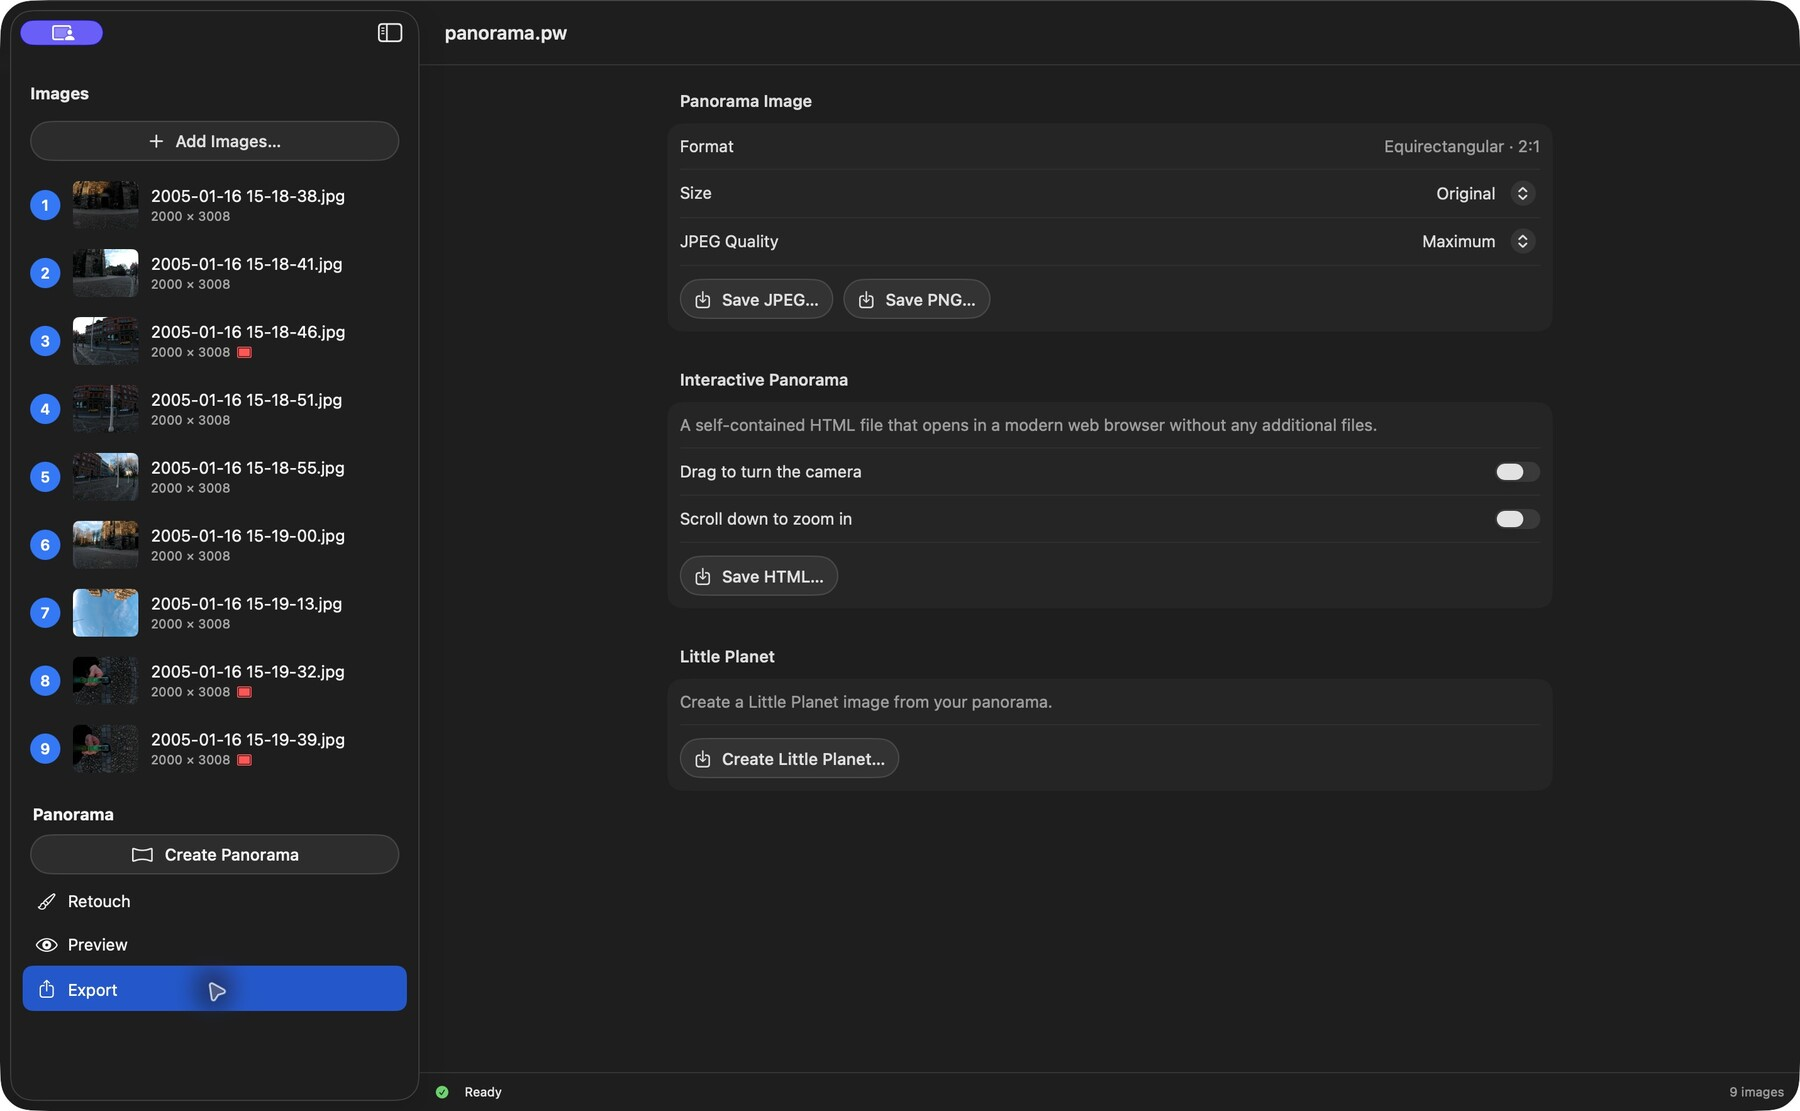
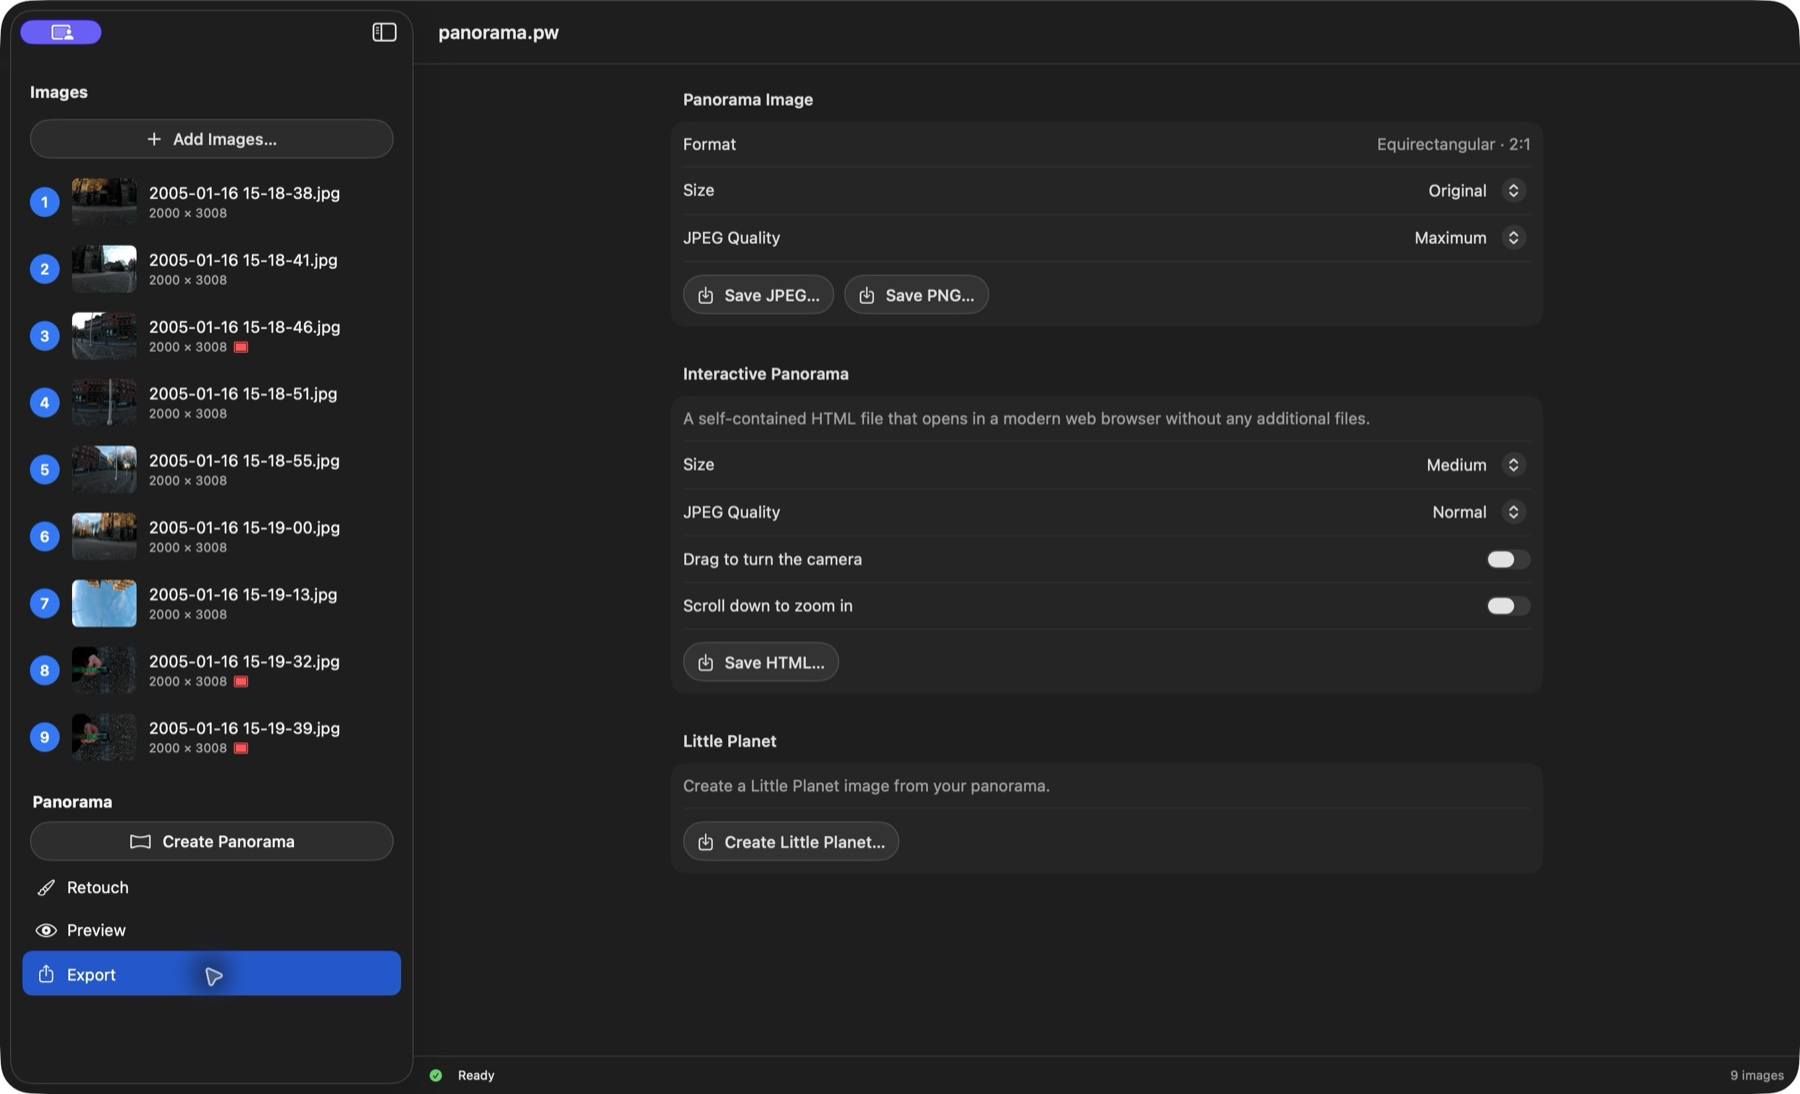
Refresh documentation and screenshots for panorama export
Document seven examples and independent HTML size and JPEG quality controls. Correct example G prompt details and replace the export and garden screenshots with captures from the current app.

diff --git a/docs/examples.md b/docs/examples.md
@@ -104,7 +104,7 @@ Open **Retouch** and click the **Manual Patch** thumbnail to locate its area in 
 
 ![Example F open in PanoWizard Preview, showing the seated people on the snowy terrace and its six NEF source files in the sidebar](Images/Examples/f-preview.jpg)
 
-Explore the terrace, seated people, and surrounding buildings in **Preview**. F uses Nikon D80 NEF RAW source photographs, unlike the JPEG sources in A–E. Keep all six `.NEF` files beside `panorama.pw`.
+Explore the terrace, seated people, and surrounding buildings in **Preview**. F uses Nikon D80 NEF RAW source photographs, unlike the JPEG sources in A–E and G. Keep all six `.NEF` files beside `panorama.pw`.
 
 **No AI was used in F.** The tripod is hidden using only a green **Include** mask, which favors existing pixels from an overlapping source photograph. There are no manual or AI retouch patches.
 
@@ -138,7 +138,7 @@ G shows how AI retouching can complete both ends of a panorama from a single hor
 
 Open **Retouch** to find the two **AI Patch** entries. The first is the nadir repair; the second is the zenith repair. Click each thumbnail to locate its area in **Preview**. Return to Retouch, switch that patch off, and click its thumbnail again to inspect the same view before retouching. Repeat with the switch on. The patches can be toggled independently, and viewing the saved results requires no API key.
 
-To inspect a saved mask and instruction, click the patch’s pencil button and choose **Cancel** when finished. Both patches use the default **Replace** instruction with a short description of the scene: grass and leaves for the nadir, branches and leaves for the zenith. See [AI Retouch](HowTo/AIPatch/index.html) to try this on a copy of the project.
+To inspect a saved mask and instruction, click the patch’s pencil button and choose **Cancel** when finished. Both saved patches use the default **Replace** instruction. See [AI Retouch](HowTo/AIPatch/index.html) to try this on a copy of the project.
 
 G demonstrates reconstruction of missing coverage at both poles, beyond removing a small object. Stitching itself does not create that content; AI retouching adds it afterward.
 

diff --git a/docs/getting-started.md b/docs/getting-started.md
@@ -4,7 +4,7 @@
 
 ## 1. Open a finished example
 
-[Download the six example panoramas](examples.html), then open **A/panorama.pw** with **File → Open…**. If asked for access, choose the A folder and click **Grant Access**. The sidebar should show nine source photographs.
+[Download the seven example panoramas](examples.html), then open **A/panorama.pw** with **File → Open…**. If asked for access, choose the A folder and click **Grant Access**. The sidebar should show nine source photographs.
 
 ![Example A with its finished panorama open](Images/Examples/a-preview.jpg)
 
@@ -18,7 +18,7 @@ The [Masks guide](HowTo/Masking/index.html) explains A's red and green source ma
 
 ## 3. Export
 
-Select **Export**, then **Save JPEG…** for an image or **Save HTML…** for an interactive panorama you can open in a browser. **Size: Original** keeps the saved panorama's dimensions.
+Select **Export**, then **Save JPEG…** for an image or **Save HTML…** for an interactive panorama you can open in a browser. **Size: Original** keeps the saved panorama's dimensions. For HTML, choose **Small**, **Medium**, **Large**, or **Original**, and set **JPEG Quality** independently of the image export. See [Export](export.html) for the sizes and quality levels.
 
 ![Export controls for example A](Images/Examples/a-export.jpg)
 

diff --git a/CONTEXT.md b/CONTEXT.md
@@ -2,6 +2,20 @@
 
 Senast uppdaterad: 2026-10-29.
 
+## Dokumentationsgranskning efter check-in — 2026-10-29
+
+Check-in cffc2ca och tagg 2026-10-29-21-32 är pushade. GitHubs workflow för
+exempelpaket och Pages avslutades båda med success. Huvudändringarna i hjälpen
+följde med denna commit. Efter Magnus fråga kompletterades Getting Started
+(sju exempel och HTML-storlek/kvalitet), README:s kvalitetsval samt G:s aktuella
+standardprompt och F:s jämförelse med JPEG-exemplen. Nya skärmbilder från den
+installerade appen visar exportens separata HTML-kvalitet och G:s JPEG-källor.
+Bilderna granskades visuellt; lokala dokumentationslänkar/bildreferenser och
+git diff --check godkända. A/G-projekten öppnades utan att sparas; inga ändringar
+i examples/. Ingen appkod ändrad eller nytt bygge behövt. Samtliga 129 lokala
+länkar/bildreferenser är kontrollerade. Magnus begärde därefter check-in av
+kompletteringarna med commit, ny tidsstämpeltagg och push till main.
+
 ## Godkänd exempelstorlek och check-in — 2026-10-29
 
 Magnus godkände att använda 12288 × 6144-varianten som sparad panoramabild

diff --git a/README.md b/README.md
@@ -26,7 +26,7 @@ preview, retouching, and export in one project.
 - Create a configurable Little Planet image from the completed panorama.
 - Export the finished panorama as JPEG or PNG, or as a self-contained
   interactive HTML file with JPEG compression and Small, Medium, Large, or
-  Original image size.
+  Original image size, plus independent Normal, High, or Maximum JPEG quality.
 
 PanoWizard never synthesizes missing scene content during stitching. Areas with
 no valid source coverage remain empty until they are repaired or retouched.
